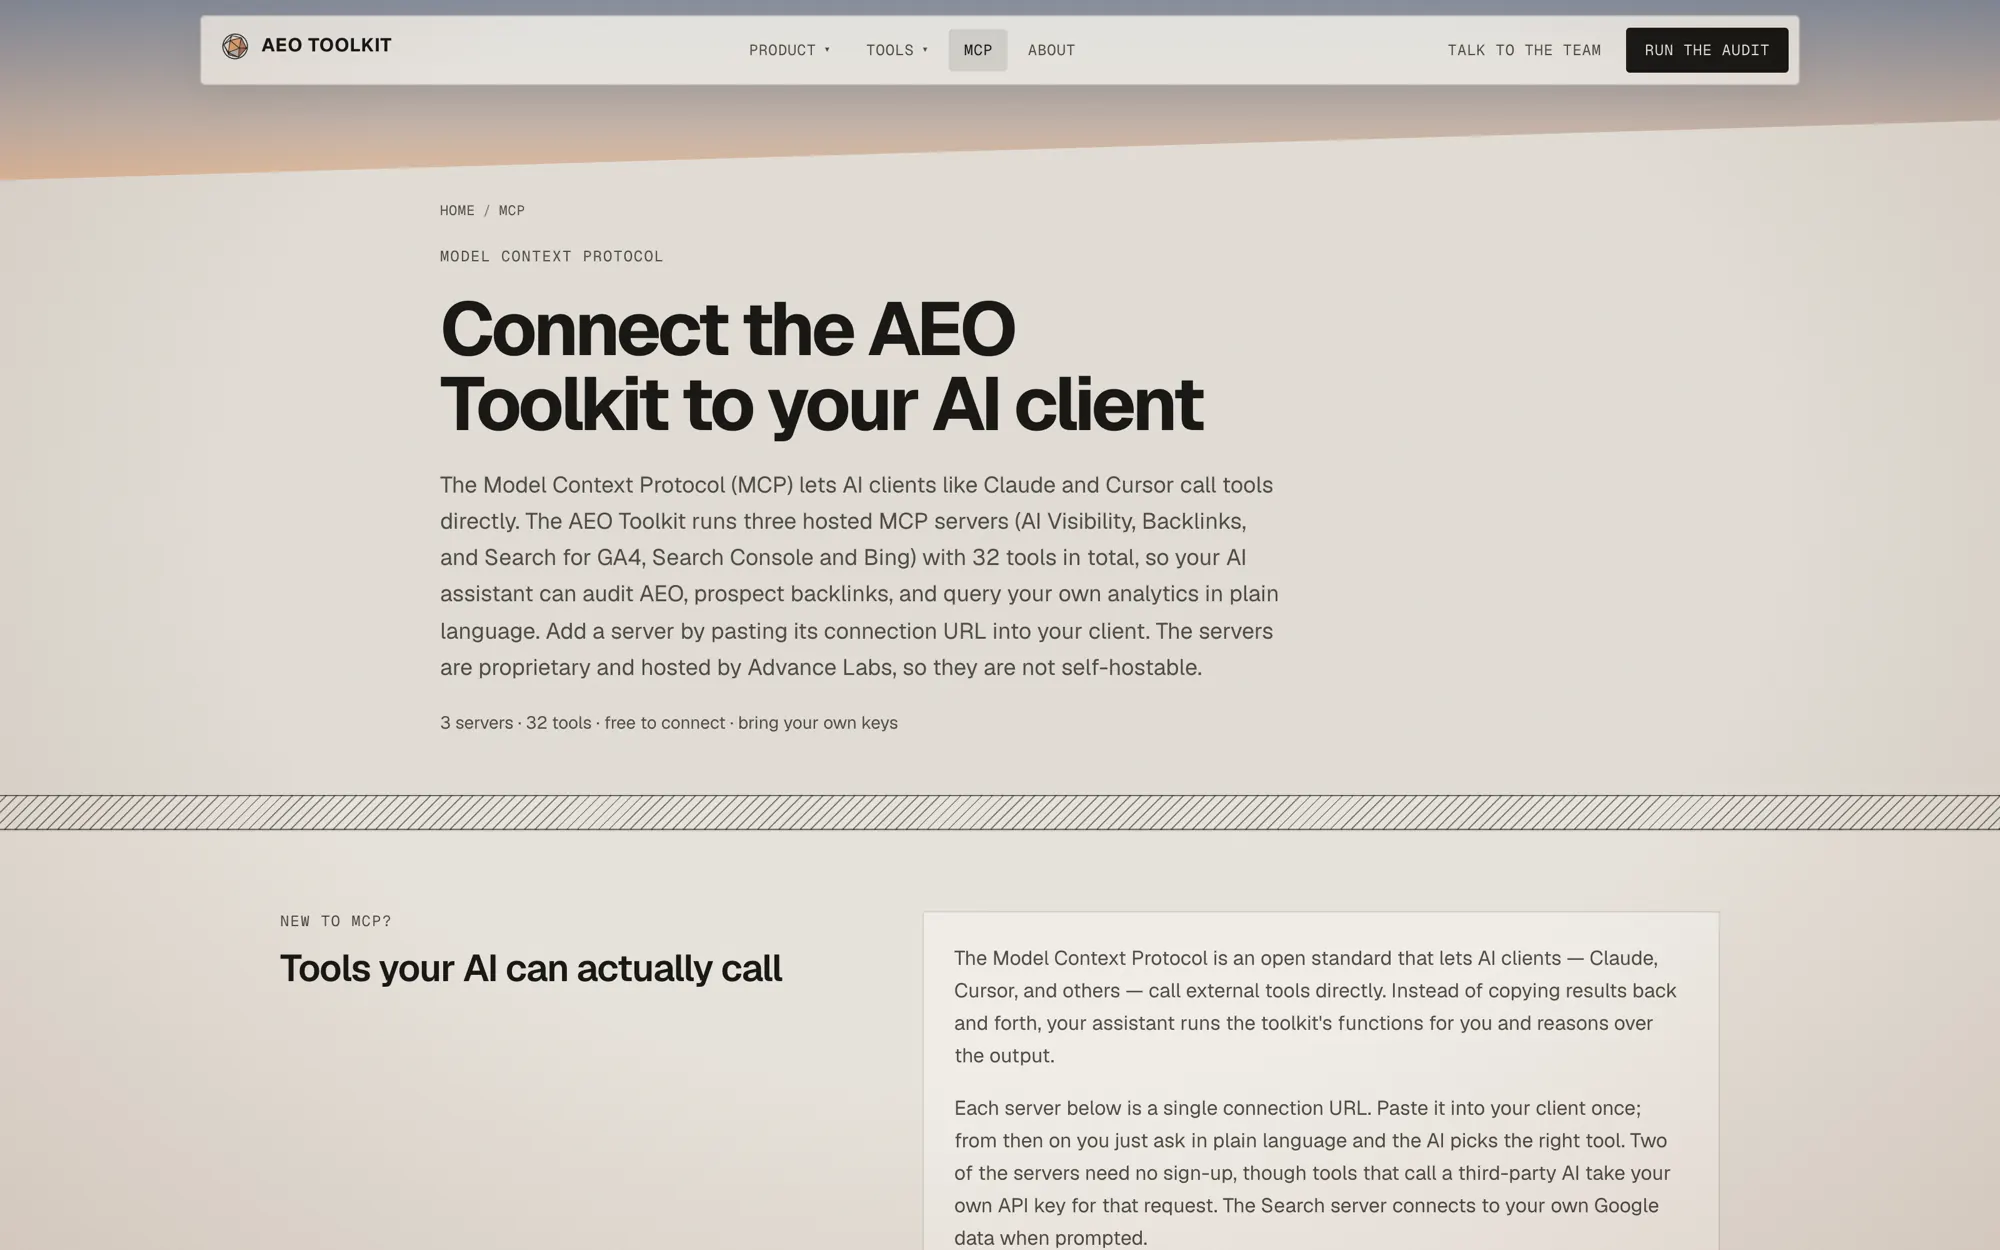
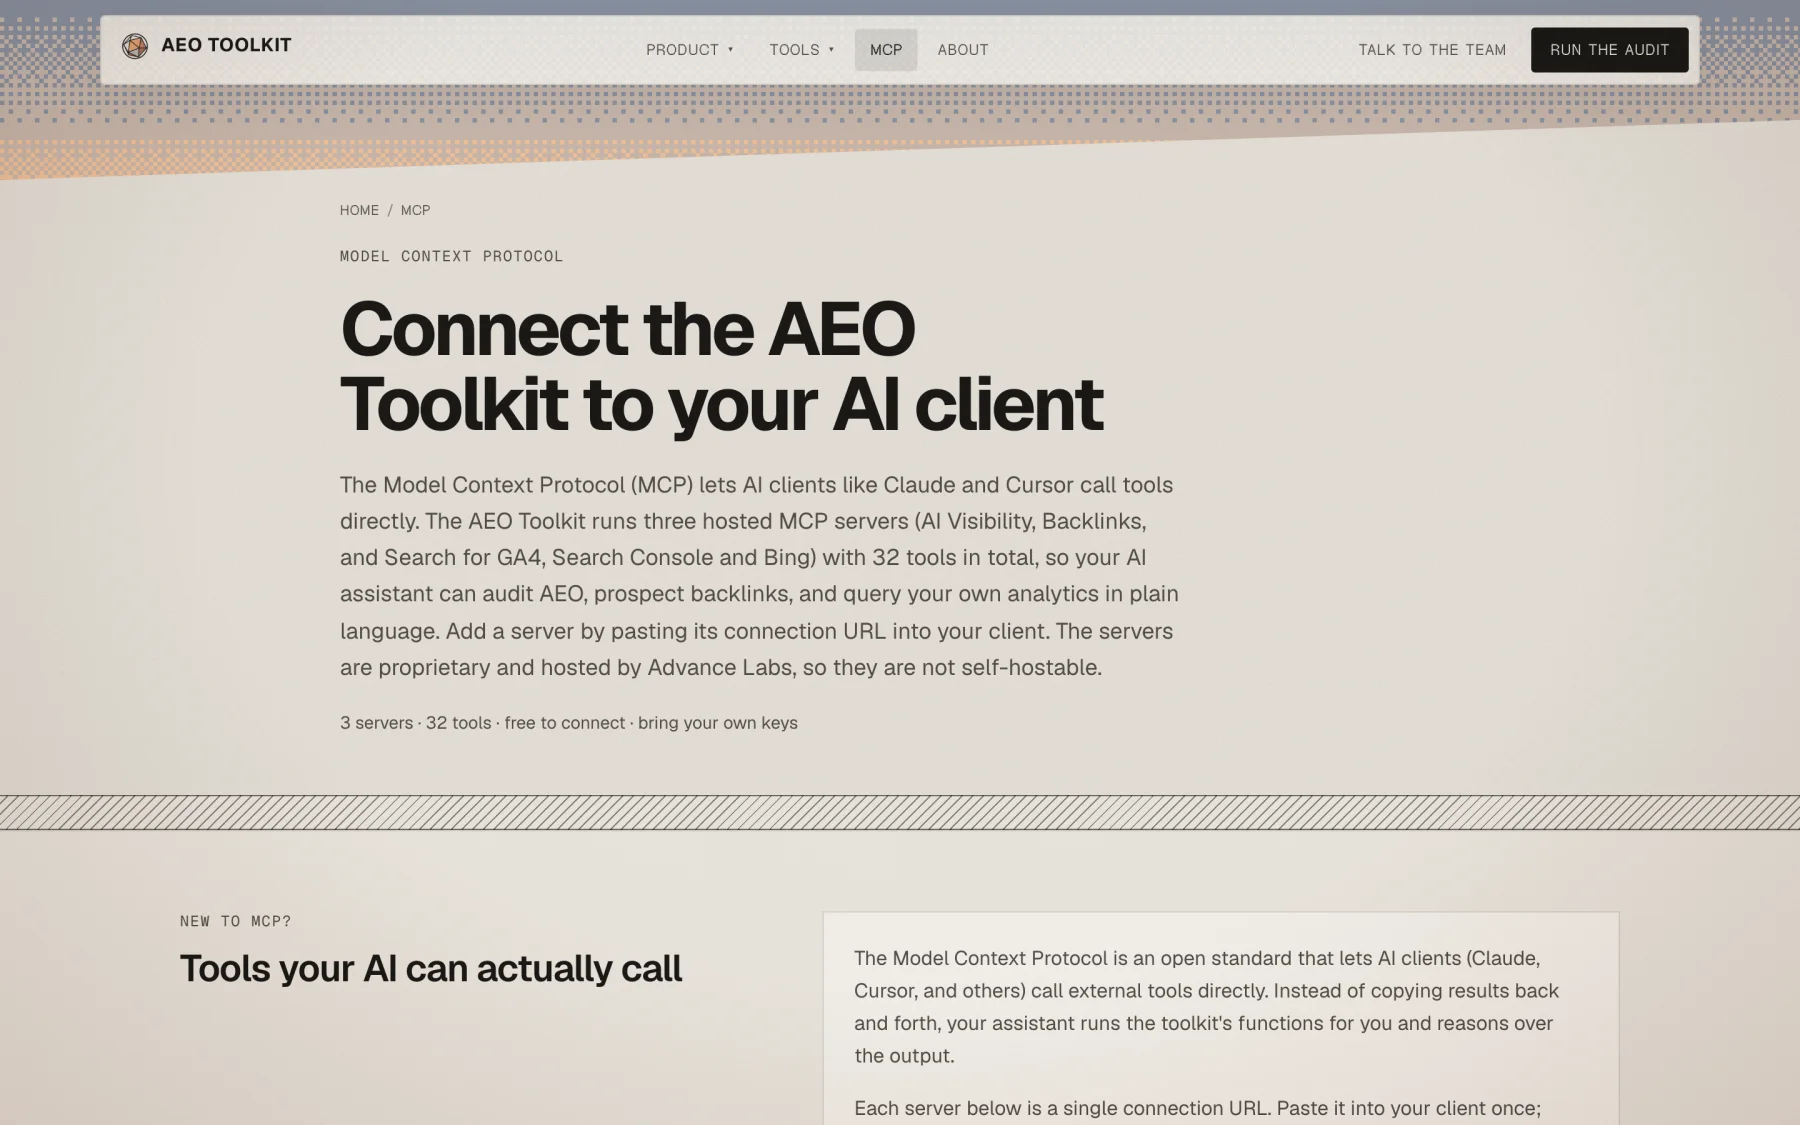
docs(readme): pixel-art branding refresh

Changed region(s): [[0.0, 0.0, 1.0, 1.0], [0.0933, 0.8089, 0.3733, 0.8711]]

diff --git a/brand/README.md b/brand/README.md
@@ -1,115 +1,88 @@
-# AEO Toolkit — Brand
+# AEO Toolkit: Brand
 
 > **2026-10-20:** `apps/console` and the internal packages it uses moved to a private repository.
 > References to them below describe the hosted platform; the code is no longer in this repo.
 
-The brand that shipped with the September 2026 website redesign. In one line: **a calibrated
-instrument, printed.** Near-black ground, one acid-green signal colour, violet as the
-secondary, mono labels like the margin notes on a lab sheet, Syne headlines, and the AEO
-Toolkit mark, "the climb", a sphere with a rising line.
+The brand that shipped with the October 2026 pixel-art redesign. In one line: **a dusk sky, a
+figure and a sphere, drawn in coarse dithered pixels.** Warm paper ground, ink text, two dusk
+oranges as the only colour, Geist Pixel labels, and a faceted sphere as the mark. The line it
+carries: *The next big thing will be a lot of small things.*
 
 ## Mark
 
-The mark is **the climb**: the Advance Labs sphere carrying a Signal-green rising line. It
-replaces the plain sphere, which now stays the studio mark on advancelabs.dev only.
+The mark is the faceted sphere: flat facets, lit faces in dusk, unlit faces in card, lines in faint ink.
 
 | File | Use |
 |------|-----|
-| [`mark-256.png`](mark-256.png) | The mark alone, square, transparent. In-page logos, READMEs. |
-| [`icon-256.png`](icon-256.png) | The mark on a rounded `#0A0A0B` tile. Favicons, app icons, avatars. |
-| [`mark-512.png`](mark-512.png) | Same, for social cards, README and print. |
-| [`logo-dark.png`](logo-dark.png) | Horizontal lockup (mark + wordmark in Signal green) for **dark** backgrounds. Transparent. |
-| [`logo.png`](logo.png) | Horizontal lockup (mark + wordmark in Ink) for **light** backgrounds. Transparent. |
-| [`logo-dark-preview.png`](logo-dark-preview.png) | The dark lockup composited on the `#0A0A0B` ground, for previews. |
-| [`social-preview.png`](social-preview.png) | 1280×640 card for the GitHub repository social preview (upload under Settings). |
-
-The mark is a raster with alpha; there is no vector version. The lockups (`logo*.png`,
-`social-preview.png`) still carry the plain sphere and are stale until regenerated with the new mark.
+| [`aeo-toolkit-mark-256.png`](aeo-toolkit-mark-256.png) | The pixel-direction mark, square. README header, in-page logos. |
+| [`mark-256.png`](mark-256.png), [`mark-512.png`](mark-512.png), [`mark.svg`](mark.svg) | Earlier mark files (see "Stale assets" below). |
+| [`icon-256.png`](icon-256.png) | Earlier mark on a rounded dark tile (see "Stale assets"). |
+| [`logo.png`](logo.png), [`logo-dark.png`](logo-dark.png), [`logo-dark-preview.png`](logo-dark-preview.png) | Earlier horizontal lockups (see "Stale assets"). |
+| [`social-preview.png`](social-preview.png) | 1280×640 GitHub social card (see "Stale assets"). |
 
 In `apps/console`, use `BrandMark` / `BrandLockup` from `src/components/BrandMark.tsx` rather
 than these files. The Chrome extension's icons are committed PNGs in
 `apps/chrome-extension/public/icons/`.
 
-## Wordmark
+### Stale assets
 
-**AEO Toolkit** in Syne Bold, tracking `-0.01em`. Signal `#A8F326` on dark grounds, Ink `#16150F`
-on light. Never gradient, never outlined, never a different face.
+`logo*.png`, `icon-256.png`, `mark-256.png`, `mark-512.png` and `social-preview.png` predate the pixel
+direction. They show the previous near-black and acid-green palette (the social card also has a
+violet gradient and an out-of-date rule count) and have not been regenerated. Do not use them in new
+work; regenerate them from the current mark.
 
 ## Palette
 
 Roles first, hex second. In code, use the token, not the number.
 
-| Role | Hex | Token |
+| Role | Hex | Notes |
 |------|-----|-------|
-| Ground | `#0A0A0B` | `--bg`, `--v2-bg` |
-| Text | `#F4F4F5` | `--v2-text` |
-| Text, soft / faint | `#B6B6BD` / `#9A9AA6` | `--v2-ink-soft`, `--v2-ink-faint` |
-| Rule | `rgba(255,255,255,.09)` | `--v2-rule` |
-| **Signal** (the one accent) | `#A8F326` | `--v2-signal`, Tailwind `brand-cyan` (legacy name) |
-| Signal, hover | `#C3FF57` | `--v2-signal-hover` |
-| Secondary (violet) | `#B6A4FD` | `--v2-accent2`, Tailwind `brand-violet` |
-| Secondary, deep | `#7C3AED` | Tailwind `brand-indigo` (legacy name) |
-| Paper / Ink | `#F4F4F5` / `#16150F` | the printed report and specimen sheet |
-| OK / Warn | `#3FBF8A` / `#D9974F` | `--v2-ok`, `--v2-warn` (audit results only) |
+| Ink | `#1a1916` | Text, lines, primary buttons |
+| Faint | `#78736a` | Secondary text, facet lines, rgb 120 115 106 |
+| Stone | `#c4bfb6` | Rules, borders, disabled |
+| Card | `#f6f3ee` | Cards, unlit facets |
+| Page / concrete | `#ece8e1` | The page ground |
+| Dusk 1 | `#f2b27a` | Lit facets, highlights |
+| Dusk 2 | `#d98a7a` | Lit facets, the second dusk tone |
+| Accent text | `#a84b2a` | Numerals and small accent text only |
 
-Rules: one Signal element per view; violet never carries a call to action; no gradient text or
-gradient backgrounds; text is off-white on near-black, never pure white on pure black.
+The dusk sky is a dithered band: slate `#8a93a3`, then `#c9b8ad`, then peach `#f2c39a`, then `#e9a88f`.
 
-The Tailwind keys `brand.indigo` / `brand.violet` / `brand.cyan` in
-`apps/console/tailwind.config.ts` resolve to the new palette so existing classes render
-correctly; treat the names as historical and prefer the CSS variables in new code.
+Rules: lit facets are exactly Dusk 1 or Dusk 2, unlit facets are Card, lines are Faint ink. There is
+no green and no violet anywhere. No gradient text and no gradient backgrounds in the product.
+
+## Pixel rules
+
+- **Cell size.** Art is drawn at a coarse resolution, `CELL` = 3.5 screen px per art pixel, then
+  scaled up with hard edges (`image-rendering: pixelated`). Never smooth it.
+- **Dither.** Colour is snapped to the small palette with a 4×4 Bayer ordered dither. No error
+  diffusion, no blur, no anti-aliasing.
+- **Greys stay grey.** Grey pixels snap only to greys, so the figure never picks up dusk tint.
+- **Figure.** A 4-tone dithered cut-out of the brand art ("Low-Poly Figure Pushing Geometric Sphere"),
+  animated as an 8-frame push cycle.
+- **Flat facets.** Spheres are flat-shaded facets, never smooth gradients or lighting.
+- **Square corners.** No rounded corners. Elevation is a hard offset shadow, never a blur.
 
 ## Type
 
-| Role | Face | Token |
-|------|------|-------|
-| Wordmark and headlines | **Syne** 600–800 | `--font-brand`, `--font-display`, `--font-v2-display` |
-| Body | **Inter** (app), **Archivo** (landing) | `--font-sans`, `--font-v2-sans` |
-| Labels, numbers, code | **JetBrains Mono** (app), **IBM Plex Mono** (landing) | `--font-mono`, `--font-v2-mono` |
-| Editorial serif | **Instrument Serif** italic | `--font-v2-serif` |
+| Role | Face |
+|------|------|
+| Labels, nav, buttons | **Geist Pixel Square**, from the `geist` package (`geist/font/pixel`) |
+| Headings and body | **Geist Sans** |
+| Code and figures | **Geist Mono**, `tabular-nums` for numbers |
 
-Labels are mono, uppercase, tracked, and numbered like a lab sheet (`01 · ASK`). Figures are
-mono with `tabular-nums`. No exclamation marks; every number in copy traces to a file in this
-repo.
+Labels are uppercase and tracked, numbered like a lab sheet (`01 / CRAWL AND SCORE`). No
+exclamation marks; every number in copy traces to a file in this repo.
 
 ## Where the tokens live
 
-| What | File |
-|------|------|
-| App tokens | `apps/console/src/app/globals.css` |
-| Landing tokens and utilities (`v2-frame`, `v2-glass`, `v2-label`, `v2-brackets`) | `apps/console/src/components/landing-v2/landing-v2.css` |
-| Tailwind palette and fonts | `apps/console/tailwind.config.ts` |
-| Mark component | `apps/console/src/components/BrandMark.tsx` |
-| Favicon / app icons / OG cards | `apps/console/src/app/icon.png`, `apple-icon.png`, `src/lib/og.tsx` |
-| Docs site theme | `apps/docs/src/styles/brand.css` |
+The tokens and the pixel components (`pixel.ts`, `Sisyphus`, `SphereCanvas`, `sphere.ts`, and
+`.f-sky` / `.f-pixel` in `globals.css`) live in the console's `components/field/` folder and
+`apps/console/src/app/globals.css`, which are in the private repository. Mark component:
+`apps/console/src/components/BrandMark.tsx`. Docs site theme: `apps/docs/src/styles/brand.css`.
 
 ## Rules for the mark
 
 - Minimum size 16 px. Lockup at least 160 px wide.
 - Clear space around the mark of at least a quarter of its width.
-- Don't tint, outline, rotate, or put a ring behind the sphere; don't recolour or restyle the
-  wordmark; don't place either on a mid-grey ground where the off-white sphere loses its edge.
-
-## App icons: the mark carries its own ground
-
-Where we do **not** control the background, the sphere ships composited on a rounded `#0A0A0B`
-tile rather than on transparency. The sphere is off-white with no outline — measured on the
-128 px raster it is 56.7% transparent at a mean luminance of 155/255 — so on a white ground it
-very nearly disappears, and the Chrome Web Store listing card and the light-mode Chrome toolbar
-are both white. This is the same reason `logo-dark-preview.png` exists; an app icon is that
-problem in a smaller box.
-
-| Surface | Treatment |
-|---------|-----------|
-| Chrome extension icons (16/32/48/128) | Sphere on a rounded `#0A0A0B` tile, radius `size × 28/128` |
-| Favicons, app icons, avatars | Same, wherever the host renders on an unknown ground |
-| Anywhere we own the ground (site, docs, README on GitHub's dark UI) | The transparent mark, as above |
-
-The tile icons were produced at 16/32/48/64/128/180/192/256/512/1024 px with the sphere inset tightening as the tile shrinks (clear space yields to legibility at 16 px). They are committed rasters; regenerate from the master, do not hand-edit.
-
-## Previous brand
-
-The indigo→violet tile with the white "A" and cyan sparkle (`#6366F1` / `#8B5CF6` / `#22D3EE`)
-was retired with the September 2026 redesign, along with the aurora backdrop and gradient text.
-Its SVGs were removed from this folder, as were `@advance-labs/ui`'s `Logo` / `LogoMark`
-components that drew it.
+- Don't tint, outline, rotate, or smooth the sphere; don't recolour or restyle the wordmark.

diff --git a/README.md b/README.md
@@ -8,13 +8,13 @@
 
 Open-source AI search optimization: 44 small checks that decide whether ChatGPT, Claude and Perplexity cite you.
 
-<a href="https://advancelabs.dev/tools"><img src="docs/assets/banner.webp" alt="The AEO Toolkit homepage: 'The next big thing will be a lot of small things' beside a faceted sphere being pushed uphill" width="100%"></a>
+<a href="https://advancelabs.dev/tools"><img src="docs/assets/banner.webp" alt="The AEO Toolkit homepage in pixel art: 'The next big thing will be a lot of small things' above a dithered figure pushing a faceted sphere up a slope" width="100%"></a>
 
 [![TypeScript](https://img.shields.io/badge/TypeScript-5.x-3178C6?style=flat-square&logo=typescript&logoColor=white)](https://typescriptlang.org)
-[![License: Apache 2.0](https://img.shields.io/badge/License-Apache_2.0-A8F326?style=flat-square&labelColor=0A0A0B)](LICENSE)
-[![Made by Advance Labs](https://img.shields.io/badge/Made%20by-Advance%20Labs-7C3AED?style=flat-square&labelColor=0A0A0B)](https://advancelabs.dev)
-[![Brand](https://img.shields.io/badge/Brand-guide-B6A4FD?style=flat-square&labelColor=0A0A0B)](brand/README.md)
-[![Chrome Web Store](https://img.shields.io/badge/Chrome_Web_Store-AEO%2FGEO_Auditor-A8F326?style=flat-square&logo=googlechrome&logoColor=white&labelColor=0A0A0B)](https://chromewebstore.google.com/detail/aeogeo-auditor/bdkkjpbipgolopjhndknigaaokdabnad)
+[![License: Apache 2.0](https://img.shields.io/badge/License-Apache_2.0-F2B27A?style=flat-square&labelColor=1A1916)](LICENSE)
+[![Made by Advance Labs](https://img.shields.io/badge/Made%20by-Advance%20Labs-D98A7A?style=flat-square&labelColor=1A1916)](https://advancelabs.dev)
+[![Brand](https://img.shields.io/badge/Brand-guide-F2B27A?style=flat-square&labelColor=1A1916)](brand/README.md)
+[![Chrome Web Store](https://img.shields.io/badge/Chrome_Web_Store-AEO%2FGEO_Auditor-D98A7A?style=flat-square&logo=googlechrome&logoColor=white&labelColor=1A1916)](https://chromewebstore.google.com/detail/aeogeo-auditor/bdkkjpbipgolopjhndknigaaokdabnad)
 
 </div>
 
@@ -42,16 +42,16 @@ advancelabs.dev. This repo is the open core: the audit engine packages, the
 
 ## What it looks like
 
-The hosted site is a faceted sphere in which every facet is one of the audit's small checks.
+The hosted site is drawn in dithered pixel art: a figure pushing a faceted sphere up a slope under a dusk sky.
 
 | | |
 |---|---|
-| <img src="docs/assets/step-audit.webp" alt="Step one, crawl and score: a faceted sphere beside a live audit panel"> | <img src="docs/assets/44-checks.webp" alt="The 44 checks, laid out as a grid grouped by category"> |
-| **Crawl and score.** Up to 50 pages against every rule. | **44 small things.** Each check is open source. |
-| <img src="docs/assets/audit-tool.webp" alt="The LLM and Technical SEO Audit tool"> | <img src="docs/assets/track.webp" alt="The Track page: see who AI recommends, and whether it is you"> |
+| <img src="docs/assets/step-audit.webp" alt="Step one, crawl and score: a pixel-art faceted sphere beside a dark audit panel"> | <img src="docs/assets/44-checks.webp" alt="The 44 small things: a category list beside a carousel of check cards, each with its fix"> |
+| **Crawl and score.** Up to 50 pages against every rule. | **44 small things.** Pick a category and flip through the checks. The scoring engine is Apache-2.0. |
+| <img src="docs/assets/audit-tool.webp" alt="The LLM and Technical SEO Audit tool: a URL field and Run audit button on a dark panel"> | <img src="docs/assets/track.webp" alt="The Track page: the pixel figure pushing a dusk-coloured sphere beside the heading about who AI recommends"> |
 | **The audit tool.** Free, no sign-up. | **Track.** See who AI recommends. |
 
-<img src="docs/assets/mcp.webp" alt="The MCP page: connect the three servers to Claude and Cursor" width="100%">
+<img src="docs/assets/mcp.webp" alt="The MCP page: Connect the AEO Toolkit to your AI client" width="100%">
 
 ---
 
@@ -241,9 +241,11 @@ Built with [Turborepo](https://turbo.build) · TypeScript 5 · Vitest · React 1
 
 ## Design
 
-Advance Labs' products follow one visual system: a near-black ground, a single acid-green signal
-colour, mono lab-sheet labels, Syne headlines, and the Advance Labs sphere as the mark. The
-palette, type, tokens and rules are in [`brand/README.md`](brand/README.md), with the assets
+The site is pixel art: a figure pushing a faceted sphere under a dithered dusk sky. Art is drawn
+at a coarse cell, snapped to a small palette (ink, paper, two dusk oranges) with a 4x4 Bayer
+ordered dither and scaled up with hard edges. Labels use Geist Pixel Square, headings and body
+Geist Sans, code Geist Mono. Corners are square and shadows are hard-offset. The palette, type,
+tokens and rules are in [`brand/README.md`](brand/README.md), with the assets
 beside it. Anything a user sees should follow it, and
 [`docs/CONVENTIONS.md`](docs/CONVENTIONS.md#design-and-brand) says how in code.
 

diff --git a/docs/CONVENTIONS.md b/docs/CONVENTIONS.md
@@ -101,13 +101,16 @@ anything a user sees.
   and `landing-v2.css` (`--bg`, `--v2-signal`, `--v2-rule`, …) or the Tailwind palette in
   `tailwind.config.ts`. A literal hex in a component is a review comment unless it is the graph
   palette or an OG image.
-- **One Signal per view.** `#A8F326` marks the primary action or the live figure. The second
-  green on a screen is a bug.
-- **The mark is the Advance Labs sphere**, rendered through `BrandMark` / `BrandLockup` in
+- **Two dusk tones, no green, no violet.** Colour is Dusk 1 `#f2b27a` and Dusk 2 `#d98a7a` on
+  ink `#1a1916` and paper `#ece8e1`. Anything else is a bug.
+- **Pixel art stays pixel art.** Coarse cell, 4x4 Bayer dither, hard-edged upscaling, flat facets,
+  square corners, hard-offset shadows. No blur, no smoothing, no rounded corners.
+- **The mark is the faceted sphere**, rendered through `BrandMark` / `BrandLockup` in
   `apps/console/src/components/BrandMark.tsx`. Don't inline logos, don't reintroduce the old tile
   (`@advance-labs/ui`'s `Logo` is deprecated), don't tint the sphere.
-- **Labels are mono and uppercase; headlines are Syne; numbers are tabular.** Copy carries no
-  exclamation marks, and every figure in it must trace to a file in this repo.
+- **Labels are Geist Pixel Square, uppercase; headings and body are Geist Sans; code is Geist Mono.**
+  Numbers are tabular. Copy carries no exclamation marks, and every figure in it must trace to a
+  file in this repo.
 - **Motion is opt-in.** Gate scroll and pointer effects on `prefers-reduced-motion` and
   `(hover: hover)`; the page must render complete without them.
 - **Cosmetic PRs stay cosmetic.** A design change touches `apps/console` (and `packages/ui` only
